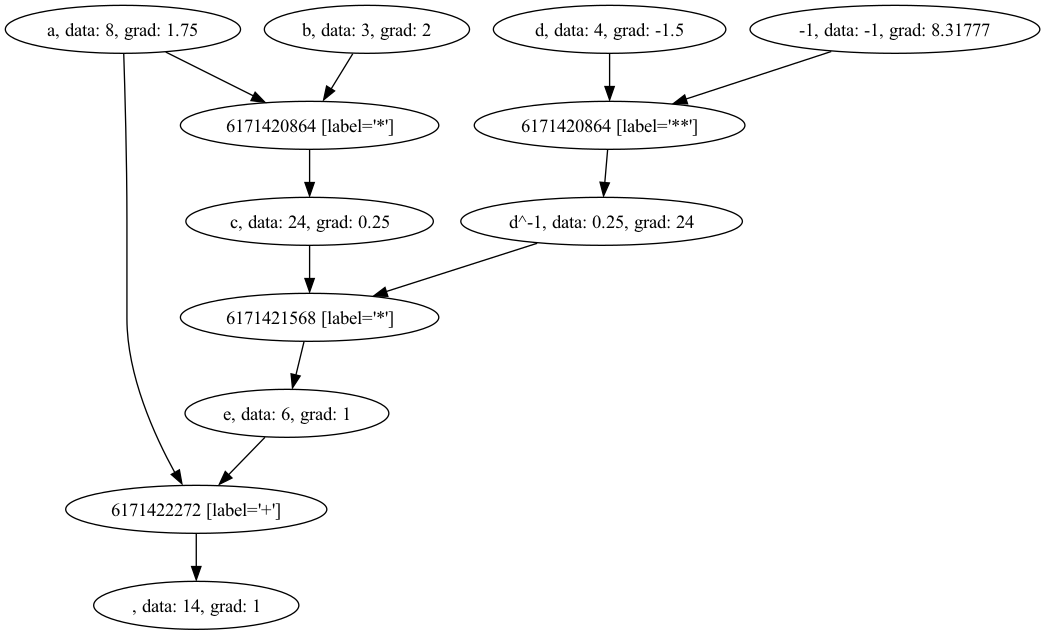
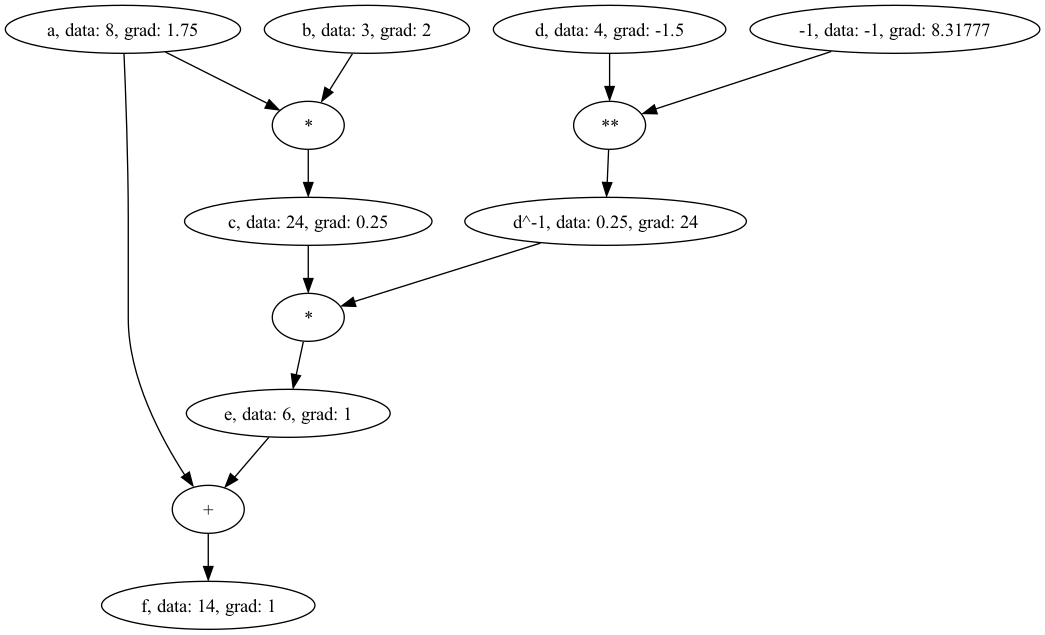
Better way of printing nodes in comp graph

diff --git a/Graph.cpp b/Graph.cpp
@@ -21,13 +21,12 @@ void Graph::generateEdgeList(Value *v, EdgeList &eList) {
     for (Value *ch : v->prev) {
         generateEdgeList(ch, eList);
         if (v && v->op != Operator::NONE) {
-            eList.push_back({ch->getGraphName(), '"' + to_string((long) &v) + " [label=" + "'" + operatorStringMap[v->op] + "'" + "]" + '"'});
+            eList.push_back({ch->getGraphName(), v->getGraphOpName()});
         }
     }
     if (v && v->op != Operator::NONE) {
-        eList.push_back({'"' + to_string((long) &v) + " [label=" + "'" + operatorStringMap[v->op] + "'" + "]" + '"', v->getGraphName()});
+        eList.push_back({v->getGraphOpName(), v->getGraphName()});
     }
-
 }
 
 void Graph::visualizeGraph(Value terminal, filesystem::path imgname) {
@@ -44,7 +43,7 @@ void Graph::visualizeGraph(Value terminal, filesystem::path imgname) {
     filesystem::path filename = "tmp.dot";
     filesystem::path filepath = dirname / filename;
     if (!filesystem::exists(dirname)) {filesystem::create_directory(dirname);}
-    this->generateDotFile(eList, filepath);
+    this->generateDotFile(topoList, eList, filepath);
     pid_t pid = fork();
     if (pid == 0) {
         char *args[] = {(char *)"/opt/homebrew/bin/dot", (char *)"-Tpng", (char*) filepath.c_str(), (char *)"-o", (char *) imgname.c_str(), nullptr};
@@ -57,9 +56,17 @@ void Graph::visualizeGraph(Value terminal, filesystem::path imgname) {
     }
 } 
 
-void Graph::generateDotFile(const EdgeList &edges, const string &filename) {
+void Graph::generateDotFile(vector<Value*> topoList, const EdgeList &edges, const string &filename) {
     ofstream dot_file(filename);
     dot_file << "digraph DAG {\n";
+    for (const auto &node : topoList) {
+        dot_file << "    " << node->getGraphName() << ";" << endl;
+        if (node->op != Operator::NONE) {
+            dot_file << "    " << node->getGraphOpName() << " [label=" << '"' << operatorStringMap[node->op] << '"' << "];" << endl;
+        }
+    }
+    dot_file << "\n";
+
     for (const auto &edge : edges) {
         dot_file << "    " << edge.first << " -> " << edge.second << ";\n";
     }
@@ -91,7 +98,7 @@ int main() {
     Value *c = a * b; c->label="c";
     Value d = Value(4, "d");
     Value *e = *c / d; e->label="e";
-    Value *f = a + *e; f.label="f";
+    Value *f = a + *e; f->label="f";
     Graph g = Graph();
     f->grad = 1;
     f->backward();

diff --git a/Graph.hpp b/Graph.hpp
@@ -22,7 +22,7 @@ class Graph {
     public: 
         Graph();
         void topo(Value *v, vector<Value*> &list, set<Value*> &visited);
-        void generateDotFile(const EdgeList &edges, const string &filename);
+        void generateDotFile(vector<Value*> topoList, const EdgeList &edges, const string &filename);
         void visualizeGraph(Value terminal, filesystem::path);
         void generateEdgeList(Value *v, EdgeList &eList);
 };

diff --git a/Value.cpp b/Value.cpp
@@ -55,6 +55,12 @@ string Value::getGraphName() {
     return oss.str();
 }
 
+string Value::getGraphOpName() {
+    ostringstream oss;
+    oss << '"' + this->label + ":" + operatorStringMap[this->op] + '"';
+    return oss.str();
+}
+
 Value *Value::operator +(Value &obj) {
     Value *out = new Value(this->data + obj.data, Operator::ADD, vector<Value*>{this, (Value*) &obj});
     

diff --git a/Value.hpp b/Value.hpp
@@ -25,6 +25,7 @@ class Value {
         Value(Value *v);
         friend ostream &operator<<(ostream &os, const Value &value);
         string getGraphName();
+        string getGraphOpName();
         double data;
         double grad;
         string label;
